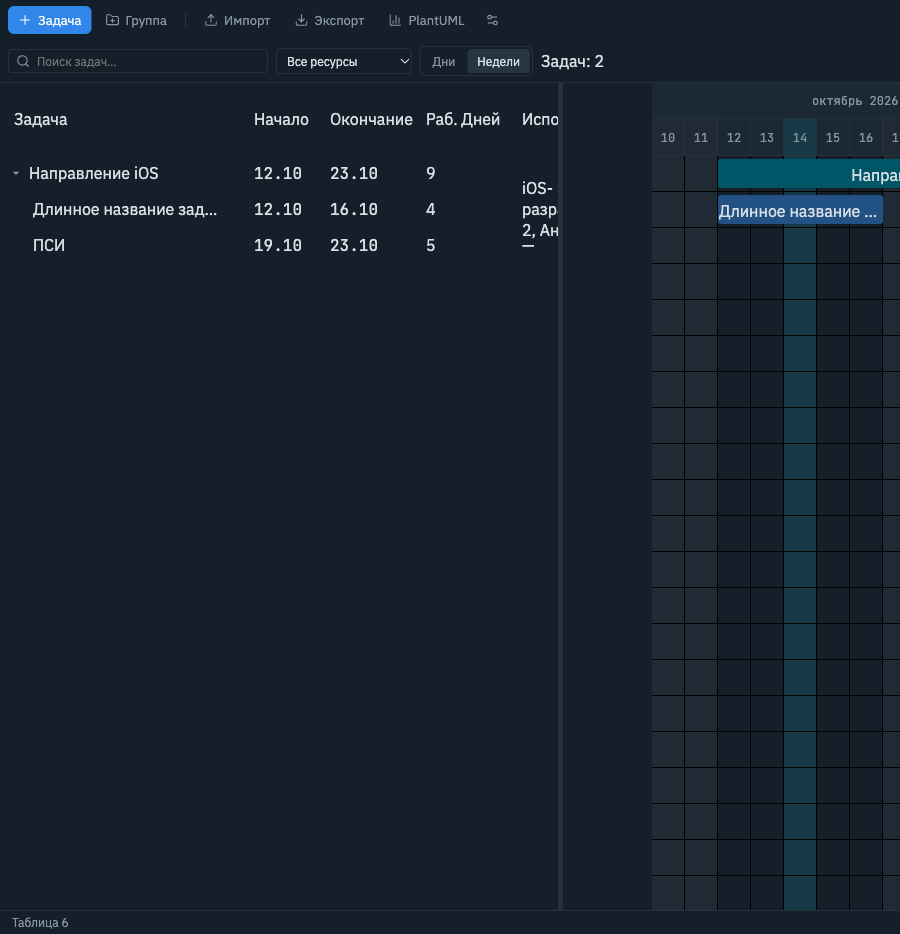
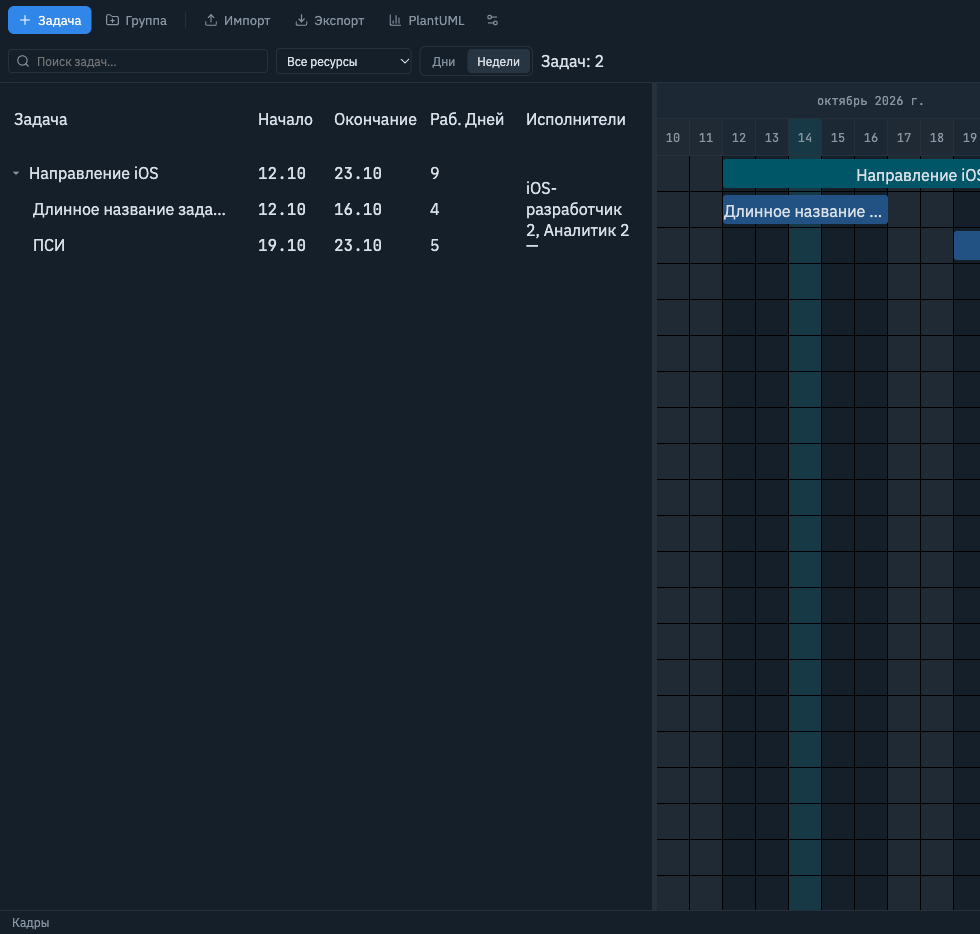
PBT-073, ревью PR#51: таблица фикс (gridWidth) + мин-ширина области со скроллом; жесты SVAR-штатные во всём диапазоне
- Колонки фикс (240/76/96/96/140 = 648), ширину таблицы держит SVAR: gridWidth=652 — согласовано с внутренними расчётами жестов
- Область диаграммы min-width 963 (648+шкала 311): при узких окнах — горизонтальный скролл контейнера вместо сжатия; высота SVAR 100% — вертикальные скроллы внутри библиотеки
- Заголовки в одну строку; паддинг ячеек 14px
- Отвергнуто надвигание чарта (3 подхода: absolute, поток+margin, container query) — каждый ломал жесты у левого края или уводил чарт за окно
- Эталон develop: отставание полос при колесе — исходное поведение SVAR (offsets идентичны), не регресс; кандидат в техдолг
- e2e 114/1 (dependencies:54 — предсуществующий); lint/typecheck/unit 458 зелёные

diff --git a/packages/gantt/src/gantt.css b/packages/gantt/src/gantt.css
@@ -131,40 +131,20 @@
   font-family: var(--font-mono);
 }
 
-/* Состав таблицы — 5 колонок (ревью PR#51). Колонки фикс: таблица не
-   сжимается при узком окне — чарт «надвигается» и скрывает правые
-   колонки, последней видимой остаётся «Задача» (позиционирование —
-   правило .wx-chart ниже). Сумма ширин колонок: 240+76+96+96+140. */
-.plan-gantt .wx-table {
-  flex: none;
+/* Состав таблицы — 5 колонок (ревью PR#51): колонки фикс, сумма 648
+   (держит SVAR через gridWidth=652). Минимальная ширина всей области
+   диаграммы — 963px (таблица 648 + читаемая шкала 311): при узком
+   окне область не сжимается — появляется горизонтальная прокрутка
+   контейнера. Высота SVAR — от контейнера: вертикальный скролл
+   остаётся внутренним у библиотеки (таблица и полосы
+   синхронизируются штатно; внешний скролл рассинхронизирует полосы). */
+.plan-gantt__chart {
+  overflow: auto;
 }
 
-/* Чарт прижат к правому краю и не уже своей минимальной шкалы
-   (диагностика PBT-073: контент дня SVAR ≈ 311px). При узком окне
-   перекрывает таблицу справа: фон скрывает колонки под собой.
-   Позиционируется обёртка .wx-content (единственный родитель чарта;
-   сам чарт остаётся в её потоке), containing block — .wx-layout. */
-.plan-gantt .wx-pseudo-rows {
-  position: relative;
-}
-
-.plan-gantt .wx-layout > .wx-content {
-  position: absolute;
-  /* Левый край и ширина: при широком окне — сразу после таблицы;
-     при узком — чарт не уже 311px, прижат к правому краю (right
-     вместо width не растягивается в flex-контейнере SVAR). */
-  left: min(652px, calc(100% - 311px));
-  width: max(311px, calc(100% - 652px));
-  top: 0;
-  bottom: 0;
-  z-index: 1;
-}
-
-.plan-gantt .wx-layout > .wx-content .wx-chart {
-  position: static;
-  width: 100%;
+.plan-gantt .wx-gantt {
   height: 100%;
-  background: var(--wx-background, var(--surface));
+  min-width: 963px;
 }
 
 /* Простор между колонками: паддинг ячеек 14px (токен SVAR, база 12). */

diff --git a/packages/gantt/src/PlanGanttWidget.tsx b/packages/gantt/src/PlanGanttWidget.tsx
@@ -1742,6 +1742,7 @@ export default function PlanGanttWidget({
                 tasks={tasks}
                 links={links}
                 columns={columns}
+                gridWidth={652}
                 inclusiveEnd={true}
                 cellWidth={zoomCellWidth}
                 cellHeight={36}

diff --git a/openspec/changes/pbt-073-gantt-dark-theme/tasks.md b/openspec/changes/pbt-073-gantt-dark-theme/tasks.md
@@ -33,5 +33,5 @@
 - [x] 6.2 Полный набор: lint ✓, typecheck ✓, test 458 (+9 zoom-utils) ✓, build ✓, `test:browser` 114/1 (dependencies:54 — предсуществующий красный среды, бисект-факт PBT-069) на чистой среде (pkill preview, порт свободен), `openspec validate pbt-073-gantt-dark-theme --strict` ✓ и `--all --strict` ✓
 - [x] 6.2a **Замечание ревью PR#51 (растяжка на всю высоту):** чарт фиксированной высоты не растягивался на виджет — корни: `min-height 220/200px` у `.plan-gantt`/`.plan-gantt__chart` и `.widget-window__body` без `flex:1` (тело окна росло по контенту — `height:100%` виджета считался не от чего). Фикс: min-height 0 у обеих + `flex:1` телу окна (платформенный css, apps/project-board). Замер после: сетка 83+171+24=278 ✓, разворот 83+487+24=594 ✓ — тулбар/футер фиксированы, чарт занимает весь остаток (референс flexi-dashboard-hub). Попутные правки спек: plan-groups/resource-timeline-editing — разворот перед dblclick + убран предварительный `click()` у RCT-элемента (выделение перекладывает стек дорожки, dblclick открывал соседнюю задачу); after-скриншоты пересняты, добавлен `after-height-fix.png`; полный набор повторён: 114/1 (dependencies:54 — предсуществующий)
 - [x] 6.2b **Замечание ревью PR#51 (таблица, 5 колонок):** состав — Задача (главная), Начало/Окончание (дд.мм моно), Раб. дней, Исполнители; колонка «Типы» убрана — типы в форме задачи (delta spec MODIFIED «Отображение назначений в таблице Гантта» + сценарий «Колонки не наезжают»). Корень наездов: контент кастомных ячеек SVAR лежит прямо в `.wx-cell` без `.wx-text` (data-col-id с префиксом «:») — без nowrap и ellipsis длинный текст вылезал на соседнюю колонку; фикс — `white-space: normal; overflow-wrap: break-word` по обеим вариантам data-col-id (моно дат также на оба). Правки спек task-assignments ×2 (типы — через content/форму, не строку). Полный набор: 114/1 (dependencies:54 — предсуществующий)
-- [x] 6.2c **Замечание ревью PR#51 (таблица не сжимается, чарт надвигается):** колонки фикс (Задача 240, Начало 76, Окончание 96, Раб. дней 96, Исполнители 140; сумма 648) — таблица `flex: none`, не сжимается при узком окне; обёртка чарта (`.wx-layout > .wx-content`) позиционируется absolutely: `left: min(652px, 100% − 311px)`, `width: max(311px, 100% − 652px)` — при широком окне чарт вплотную после таблицы, при сужении прижат к правому краю и фоном (`surface`) скрывает правые колонки таблицы; последняя видимая — «Задача» (замер: ширина видимой части 240→157→85→0 при окнах 556→468→396→276px). Заголовки — в одну строку (nowrap + ширины с запасом); расстояние между колонками увеличено (`--wx-grid-cell-padding-x: 14px`). Отладочные находки: `right` не растягивает absolute-элемент во flex-контейнере SVAR (использован явный width); проценты absolute считаются от ближайшего positioned-предка (обёртка, не чарт). Скриншоты `after-table-overlay-1024.png`, overview переснят. Полный набор: 114/1 (dependencies:54 — предсуществующий), lint/unit 458 зелёные
+- [x] 6.2c **Замечания ревью PR#51 (таблица не сжимается / чарт следует за границей):** колонки фикс (Задача 240, Начало 76, Окончание 96, Раб. дней 96, Исполнители 140; сумма 648), ширины таблицы держит SVAR штатно — `gridWidth={652}`; вся область диаграммы — `min-width: 963px` (648 + шкала 311) + горизонтальный скролл контейнера при узких окнах; высота SVAR — `height: 100%` (внутренние скроллы библиотеки). Заголовки — в одну строку (nowrap + ширины с запасом); расстояние между колонками увеличено (`--wx-grid-cell-padding-x: 14px`). Жесты согласованы во всём диапазоне (drag влево в сетке 916px → 09.10, e2e жестовые зелёные). **Отвергнутые подходы** (для истории): надвигание чарта тремя способами (absolute; поток + отрицательный margin; container query) — каждый ломал жесты у левого края или уводил чарт за границы окна при сужении. **Найдено на эталоне:** отставание полос от строк при колесе мыши присутствует и на чистом develop (offsets 4→−44→−56 идентичны) — исходное поведение SVAR-обёртки, не регресс PBT-073; кандидат в техдолг. Скриншоты `after-table-minwidth*.png`, overview переснят. Полный набор: 114/1 (dependencies:54 — предсуществующий), lint/typecheck/unit 458 зелёные
 - [x] 6.3 Скриншоты до/после в `change/screenshots/` (overview, zoom-days, task-dialog, 1024×778); реестр: `In progress` → PR → `In review`; после одобрения — архивация с sync specs, `Done` после merge
